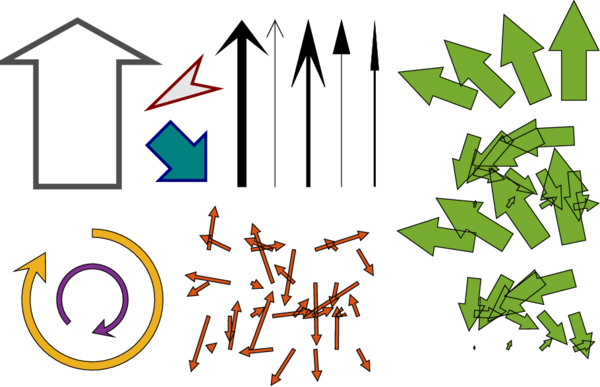
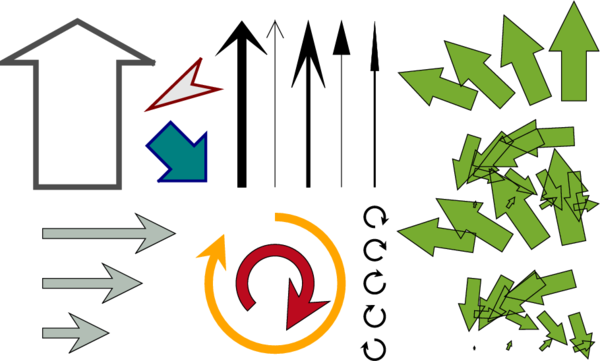
updates arrows.m

diff --git a/arrows/README.md b/arrows/README.md
@@ -2,11 +2,17 @@
 
 ## arrows.m
 
-This little function could be an alternative to other existing arrow plot functions, since it has very simple, vectorized and effective coding. In fact, arrows are all plotted in a single patch command! The function also accepts any standard patch parameter/value pair like 'FaceColor', 'EdgeColor', 'LineWidth', etc.
+![](arrows_example.png)
 
-It can be used to plot a personalized arrow at coordinates X,Y with length L and azimuth AZ, or any of these arguments can be vector or matrix, like QUIVER function, to plot multiple arrows.
+This little function could be an alternative to other existing arrow plot functions, since it has very simple, vectorized and effective coding. In fact, a set arrows are all plotted using a single patch command! The function also accepts any standard patch parameter/value pair like `'FaceColor'`, `'EdgeColor'`, `'LineWidth'`, etc.
 
-Arrow's aspect ratio, head and segment line shapes are configurable with 4 parameters: head width, head length, head inside length and segment line width, all normalized to arrow's length. 
+It can be used to plot a personalized arrow at coordinates X,Y with length L and azimuth AZ, or any of these arguments can be vector or matrix, like QUIVER function, to plot multiple arrows. The option `'Cartesian'` allows defining U and V components instead of polar L and AZ. The option `'Loop'` will plot a loop arrow of radius R and offset azimuth AZ.
+
+Arrow's aspect ratio, head and segment line shapes are configurable with 4 parameters: head width, head length, head inside length and segment line width, all normalized to arrow's length. See the upper part of examples figure.
+
+It is also possible to vary only the arrow length with fixed head and line width, using a reference length. The examples figure shows the effect of this option: upper arrows use a reference length, while lower arrows do not.
+
+Type `doc arrows` for a full documentation.
 
 ## Examples
 ```matlab
@@ -18,15 +24,16 @@ arrows(1,0,1,0,[.2,.4,.2,.02])
 ```
 
 ```matlab
+arrows(0,0,-1,45,'Loop')
+```
+
+```matlab
 [xx,yy] = meshgrid(1:10);
 arrows(xx,yy,rand(size(xx)),360*rand(size(xx)))
 ```
 
-![](arrows_example.png)
-
 ## Author
-**François Beauducel**, [IPGP](www.ipgp.fr), [beaudu](https://github.com/beaudu), beauducel@ipgp.fr 
+**François Beauducel**, [IPGP](www.ipgp.fr), [beaudu](https://github.com/beaudu), beauducel@ipgp.fr
 
 ## Documentation
 Type 'doc arrows' for help and syntax.
-
